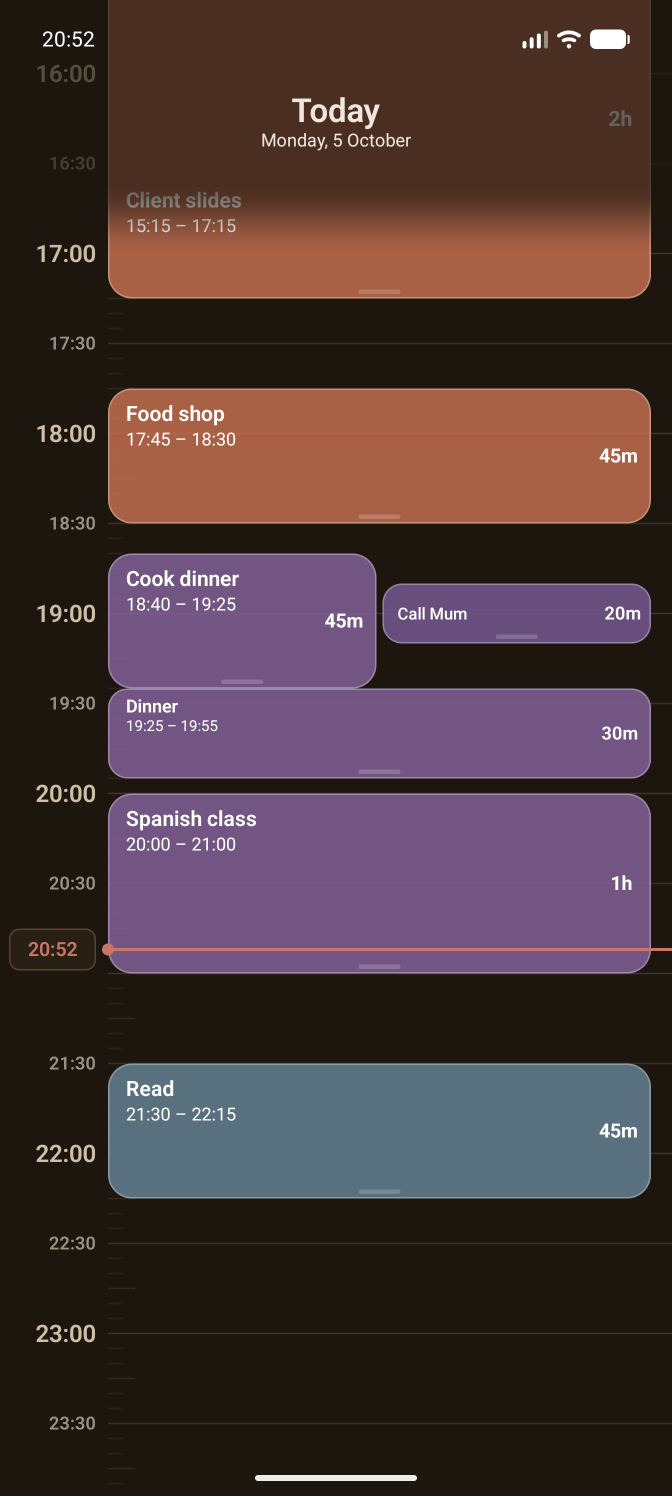
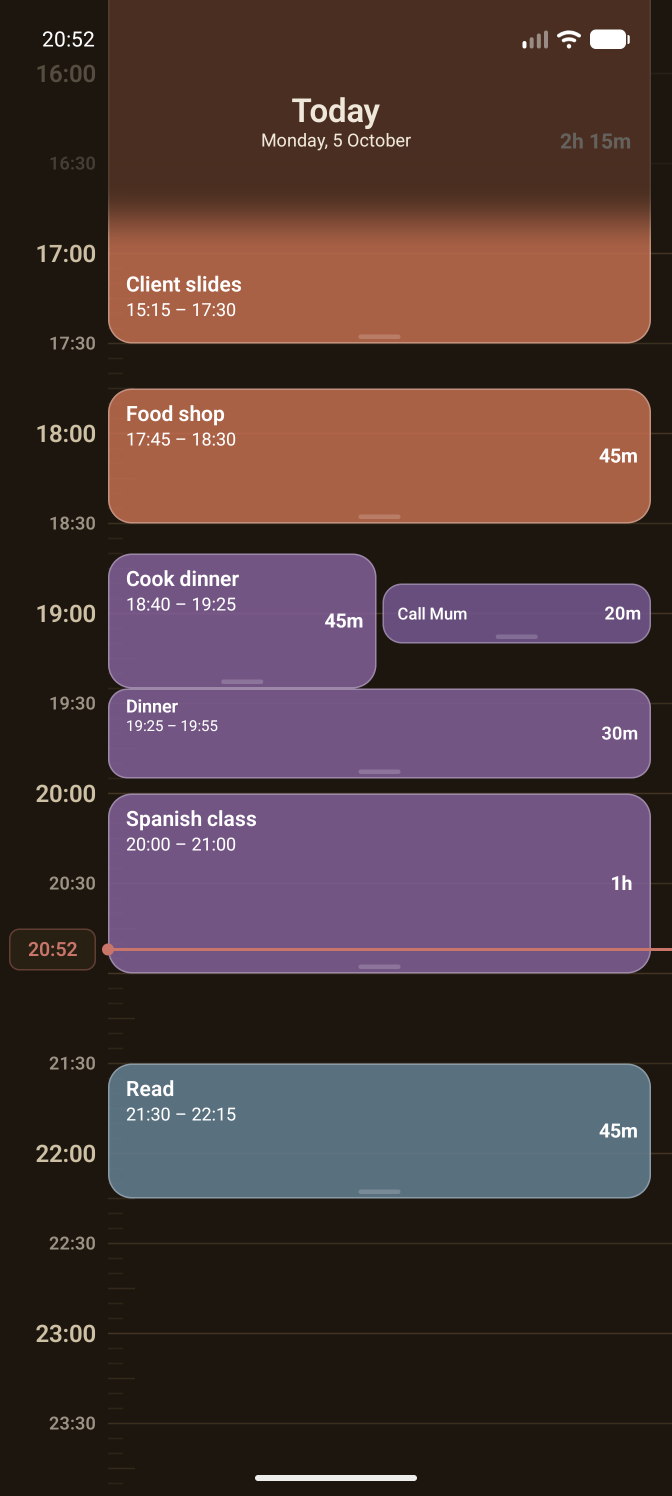
Rest a long block's pinned title below the heading's fade
- The title rested inside the fade, where the heading's tint washed it out.
- The four README pictures that show a pinned title are captured again.

66 unit and 42 instrumented tests, lintRelease and verifyPrivacy pass (emulator, Android 17).

Changed region(s): [[0.1562, 0.1845, 0.9688, 0.246], [0.1875, 0.123, 0.375, 0.1537], [0.9062, 0.0615, 0.9375, 0.123]]

diff --git a/app/src/main/java/com/privateplanner/ui/TimeBlockView.kt b/app/src/main/java/com/privateplanner/ui/TimeBlockView.kt
@@ -60,8 +60,8 @@ internal fun durationReserveDp(
     }
 }
 
-// How far a long tile's title slides down to stay just below the heading. Lengths in dp
-// except where named px.
+// How far a long tile's title slides down to stay just below the heading's fade. Lengths in
+// dp except where named px.
 internal fun titleFollowOffsetPx(
     density: Float,
     scrollPx: Int,
@@ -180,7 +180,7 @@ internal class TimeBlockView(
 
     fun scrolled() {
         if (visualHeight < LongTitlePinMinHeight) return
-        val offset = titleFollowOffsetPx(density, host.scrollPx, heightForMinutes(displayedStartMinutes), visualHeight, host.headerHeightPx)
+        val offset = titleFollowOffsetPx(density, host.scrollPx, heightForMinutes(displayedStartMinutes), visualHeight, host.headerFadeBottomPx)
         if (offset != followOffset) {
             followOffset = offset
             invalidate()
@@ -303,7 +303,7 @@ internal class TimeBlockView(
         canvas.drawRoundRect(0f, 0f, w, h, radius, radius, TilePaint)
 
         val follow = if (meta != null && visualHeight >= LongTitlePinMinHeight) {
-            titleFollowOffsetPx(density, host.scrollPx, heightForMinutes(displayedStartMinutes), visualHeight, host.headerHeightPx)
+            titleFollowOffsetPx(density, host.scrollPx, heightForMinutes(displayedStartMinutes), visualHeight, host.headerFadeBottomPx)
         } else {
             0
         }

diff --git a/app/src/main/java/com/privateplanner/ui/TimelineView.kt b/app/src/main/java/com/privateplanner/ui/TimelineView.kt
@@ -27,8 +27,10 @@ internal interface TimelineHost {
     val palette: PlannerPalette
     val scrollPx: Int
     val viewportHeightPx: Int
-    // The heading's bottom edge: where pinned titles rest and the top scroll zone begins.
+    // The bottom edge of the heading's solid part, where the top scroll zone begins.
     val headerHeightPx: Int
+    // The bottom of the fade beneath it, where pinned titles rest: clear of the tint.
+    val headerFadeBottomPx: Int
     // The viewport's bottom edge above the navigation bar.
     val visibleBottomPx: Int
     fun scrollTimelineBy(delta: Float): Boolean

diff --git a/app/src/main/java/com/privateplanner/ui/PlannerScreen.kt b/app/src/main/java/com/privateplanner/ui/PlannerScreen.kt
@@ -462,6 +462,8 @@ internal open class PlannerScreen(
 
     override val headerHeightPx: Int get() = header.contentHeight
 
+    override val headerFadeBottomPx: Int get() = header.measuredHeight
+
     override val visibleBottomPx: Int get() = scroll.height - navigationBottom
 
     private fun initialScroll(target: Int, height: Int): Int = initialTimelineScroll(

diff --git a/CHANGELOG.md b/CHANGELOG.md
@@ -1,5 +1,9 @@
 # Changelog
 
+## Unreleased
+
+- A long block's title, kept in view as the day scrolls, rests below the heading's fade. It rested inside the fade, where the heading's tint washed it out.
+
 ## 1.4.1 — 5 October 2026
 
 ### Storage
